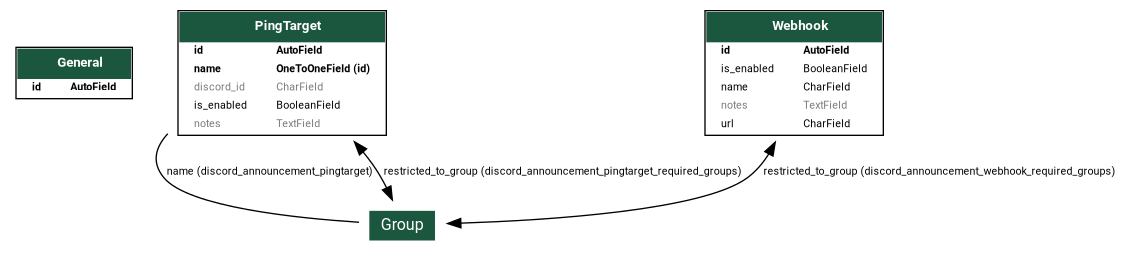
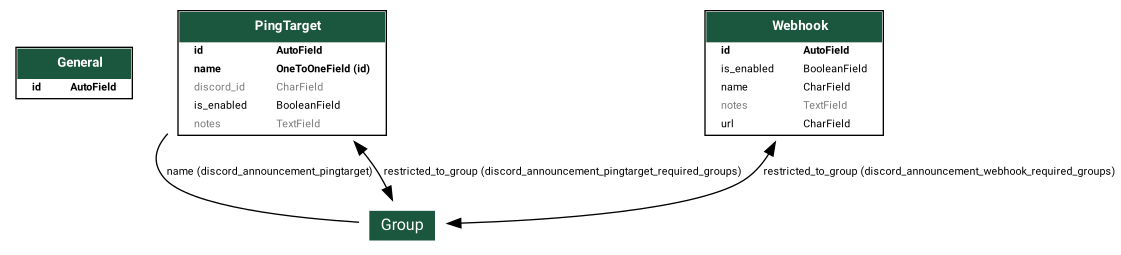
Merge pull request #242 from ppfeufer/release/v2.8.0
[RELEASE] v2.8.0

Pull request: [RELEASE] v2.8.0
## [2.8.0] - 2026-06-02

### Fixed

- Grammar - no space before ellipsis

### Changed

- Providers are now modular
- Translations updated

diff --git a/aa_discord_announcements/providers/__init__.py b/aa_discord_announcements/providers/__init__.py
@@ -1,0 +1,3 @@
+"""
+Initialize the providers
+"""

diff --git a/aa_discord_announcements/__init__.py b/aa_discord_announcements/__init__.py
@@ -5,6 +5,6 @@ A couple of variables to use throughout the app
 # Django
 from django.utils.translation import gettext_lazy as _
 
-__version__ = "2.7.3"
+__version__ = "2.8.0"
 __title__ = "Discord Announcements"
 __title_translated__ = _("Discord Announcements")

diff --git a/CHANGELOG.md b/CHANGELOG.md
@@ -37,6 +37,8 @@ Section Order:
 
 <!-- Your changes go here -->
 
+## [2.8.0] - 2026-06-02
+
 ### Fixed
 
 - Grammar - no space before ellipsis
@@ -44,6 +46,7 @@ Section Order:
 ### Changed
 
 - Providers are now modular
+- Translations updated
 
 ## [2.7.3] - 2026-05-05
 
@@ -445,6 +448,7 @@ Section Order:
 [2.7.1]: https://github.com/ppfeufer/aa-discord-announcements/compare/v2.7.0...v2.7.1 "v2.7.1"
 [2.7.2]: https://github.com/ppfeufer/aa-discord-announcements/compare/v2.7.1...v2.7.2 "v2.7.2"
 [2.7.3]: https://github.com/ppfeufer/aa-discord-announcements/compare/v2.7.2...v2.7.3 "v2.7.3"
-[in development]: https://github.com/ppfeufer/aa-discord-announcements/compare/v2.7.3...HEAD "In Development"
+[2.8.0]: https://github.com/ppfeufer/aa-discord-announcements/compare/v2.7.3...v2.8.0 "v2.8.0"
+[in development]: https://github.com/ppfeufer/aa-discord-announcements/compare/v2.8.0...HEAD "In Development"
 [keep a changelog]: http://keepachangelog.com/ "Keep a Changelog"
 [semantic versioning]: http://semver.org/ "Semantic Versioning"

diff --git a/README.md b/README.md
@@ -93,7 +93,7 @@ Restart your supervisor services for AA
 Add the app to your `conf/requirements.txt`
 
 ```text
-aa-discord-announcements==2.7.3
+aa-discord-announcements==2.8.0
 ```
 
 #### Step 2: Update Your AA Settings<a name="step-2-update-your-aa-settings-1"></a>